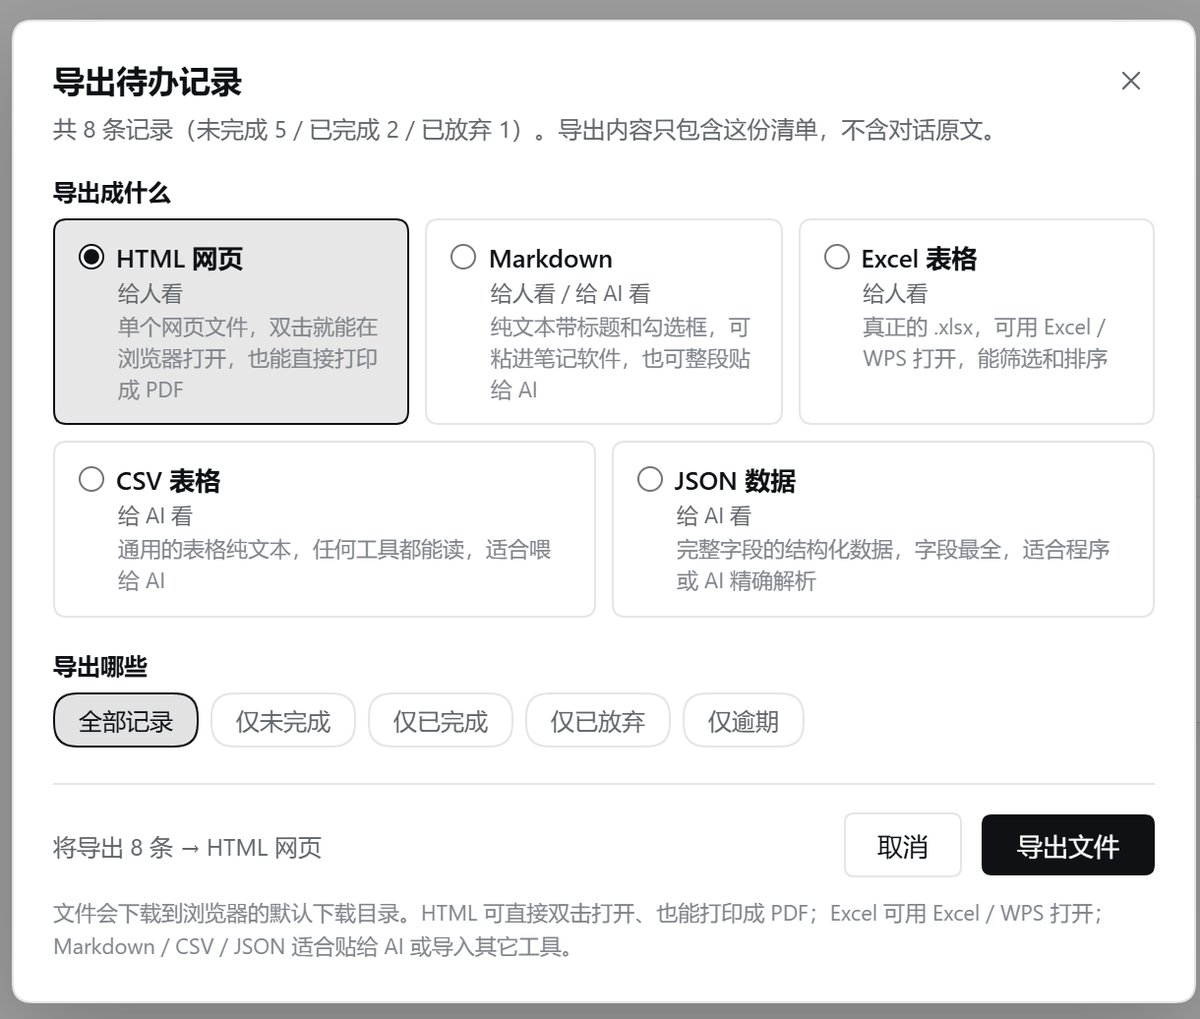
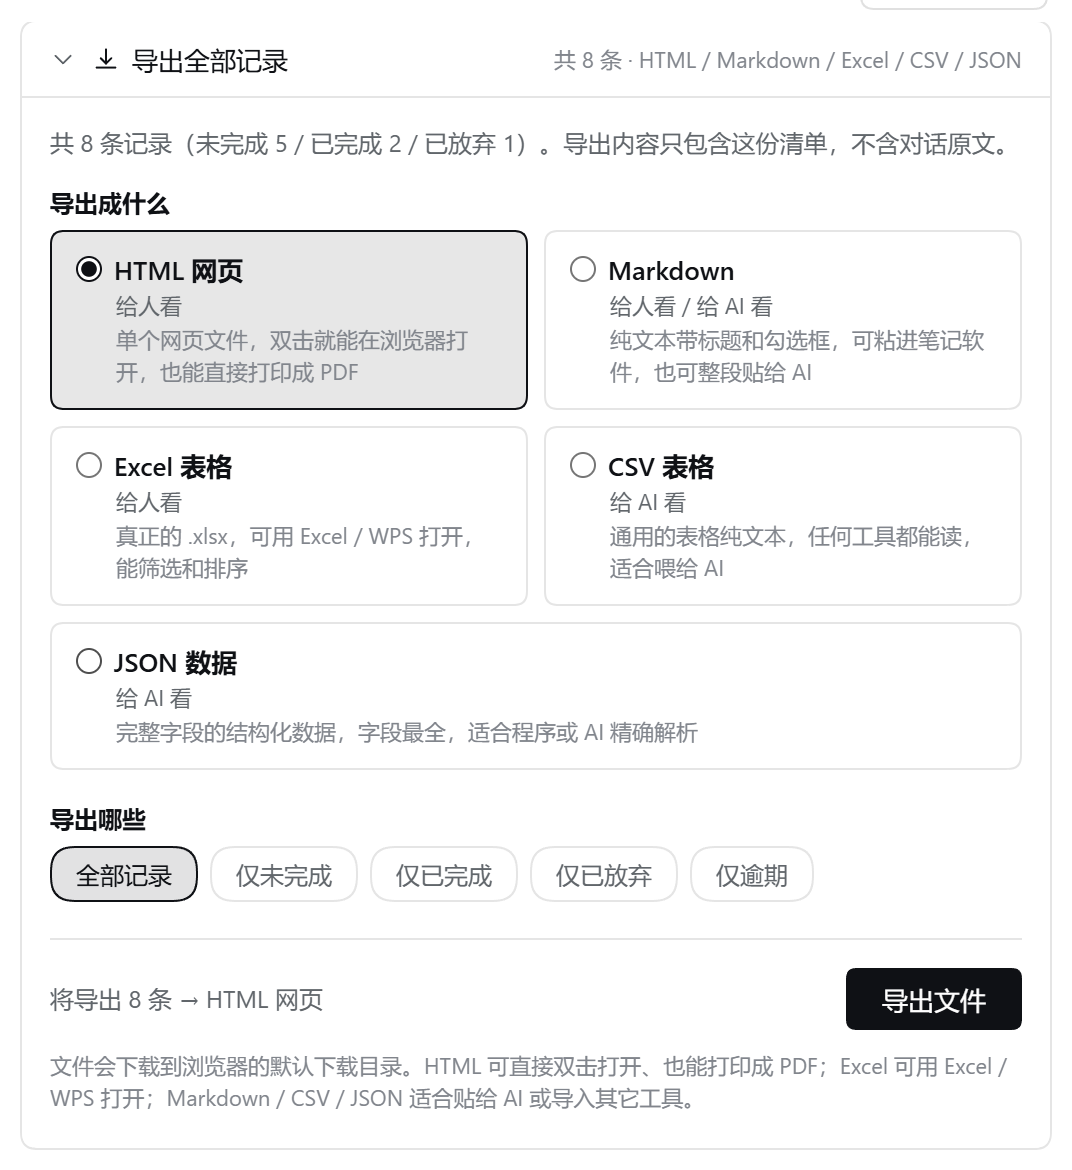
docs: v1.5.3 换新版截图（侧栏无导出按钮、设置页折叠区）
- sidebar.png：重拍，头部只剩折叠箭头 + 标题 + 预期胶囊 + 待完成数
- export.png：改为设置页内联折叠区的展开态（五张格式卡 + 五档范围 + 导出文件）
- settings.png：重拍，版本徽标 v1.5.3，页头不再有导出按钮
- README / README-zh：截图说明与「导出入口」描述同步（侧栏头部 → 设置页折叠区）

verify: 官方 check OK (11 passed, 0 failed, 1 warned, 4 skipped)，
        readme-consistency 两语言标题逐条一致

diff --git a/README.md b/README.md
@@ -50,9 +50,9 @@ Everything lands in **one sidebar panel** on the left edge — the same place ev
 </tr>
 </table>
 
-**Export: eight records in, one self-contained file out — pick the format by who reads it**
+**Export: a collapsible section on the settings page — eight records in, one self-contained file out, pick the format by who reads it**
 
-![Export dialog](https://raw.githubusercontent.com/qgd1850890306-rgb/dsh-todo-checklist/main/docs/screenshots/export.png)
+![Export section](https://raw.githubusercontent.com/qgd1850890306-rgb/dsh-todo-checklist/main/docs/screenshots/export.png)
 
 **Settings page: model, reminder channel, sidebar toggle, and the full record list with four tabs**
 
@@ -95,7 +95,7 @@ That is the whole loop. Nothing to sign up for, no separate server.
 
 Version 1.5.0 added export. The design goal was simple: **the same records must be readable by a human and by an AI, and you should not have to convert anything by hand.**
 
-Click **导出 / Export** — in the sidebar header or on the settings page — then pick a format and a scope.
+Open **设置 → 待办清单** (Settings → Todo Checklist), expand **导出全部记录**, then pick a format and a scope.
 
 **Formats** (`给人看` = for humans, `给 AI 看` = for AI):
 

diff --git a/README-zh.md b/README-zh.md
@@ -50,9 +50,9 @@
 </tr>
 </table>
 
-**导出：8 条记录进去，一个自包含文件出来 —— 按「谁读」选格式**
+**导出：设置页里的折叠区 —— 8 条记录进去，一个自包含文件出来，按「谁读」选格式**
 
-![导出对话框](https://raw.githubusercontent.com/qgd1850890306-rgb/dsh-todo-checklist/main/docs/screenshots/export.png)
+![导出区](https://raw.githubusercontent.com/qgd1850890306-rgb/dsh-todo-checklist/main/docs/screenshots/export.png)
 
 **设置页：模型、提醒渠道、侧栏开关，以及带四个分组的完整记录列表**
 
@@ -95,7 +95,7 @@
 
 1.5.0 新增导出。设计目标很朴素：**同一批记录，人要能读，AI 也要能读，而且不该需要你手动转换。**
 
-点**导出**（侧栏头部或设置页都有），选格式和范围即可。
+进 **设置 → 待办清单**，展开「导出全部记录」，选格式和范围即可。
 
 **五种格式**：
 
